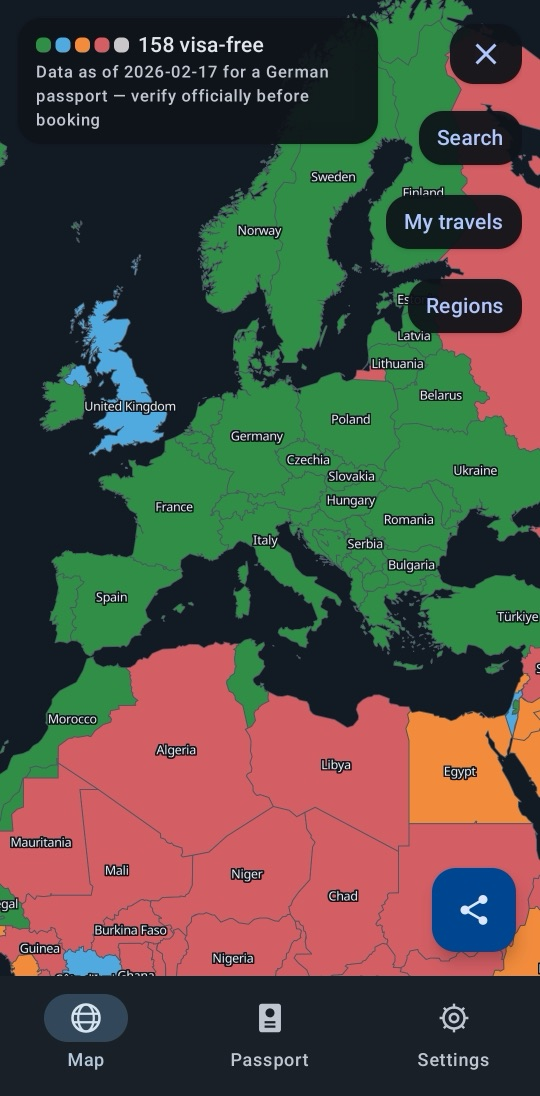
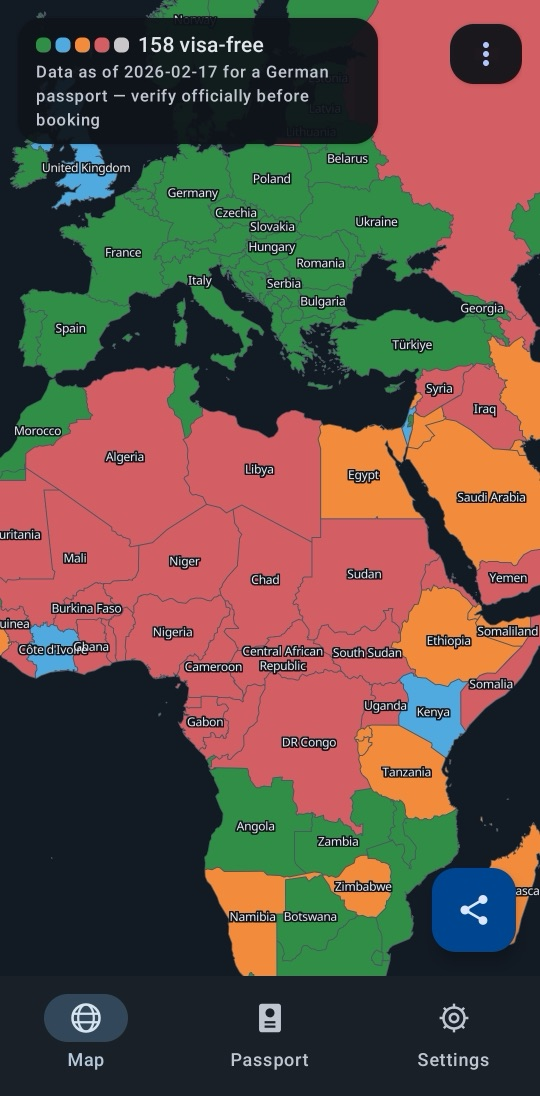
Retaken screenshots: share card first, fresh map, lens, lists and stats

diff --git a/README.md b/README.md
@@ -33,10 +33,12 @@ basemap, no tile server and no API key.
 
 <table>
   <tr>
+    <td align="center"><img src="docs/screenshots/share-card.jpg" width="180" alt="Share card"><br><sub>Share card</sub></td>
     <td align="center"><img src="docs/screenshots/map.jpg" width="180" alt="Travel map"><br><sub>Travel map</sub></td>
     <td align="center"><img src="docs/screenshots/visa-lens.jpg" width="180" alt="Visa lens"><br><sub>Visa lens</sub></td>
+    <td align="center"><img src="docs/screenshots/passport-list.jpg" width="180" alt="Passport list"><br><sub>Passport list</sub></td>
     <td align="center"><img src="docs/screenshots/where-i-can-go.jpg" width="180" alt="Where I can go"><br><sub>Where I can go</sub></td>
-    <td align="center"><img src="docs/screenshots/settings.jpg" width="180" alt="Settings"><br><sub>Settings</sub></td>
+    <td align="center"><img src="docs/screenshots/stats.jpg" width="180" alt="Stats"><br><sub>Stats</sub></td>
   </tr>
 </table>
 
